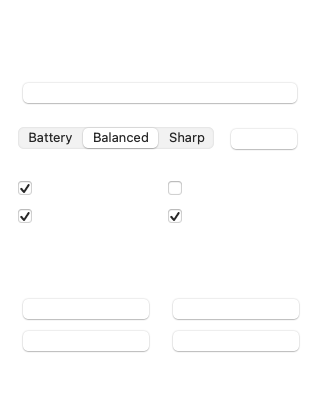
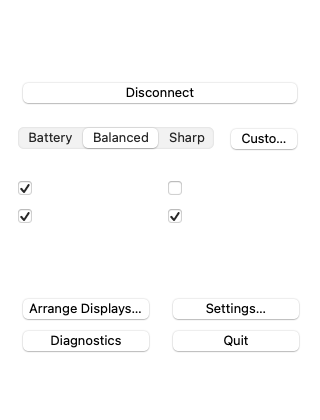
docs: record the verified settings and onboarding captures
Every Mac settings tab and every onboarding step is in the tree and
linked from the README. The score is 103/11, which is 9.36.

diff --git a/docs/QUALITY_SCORECARD.md b/docs/QUALITY_SCORECARD.md
@@ -18,9 +18,9 @@ Each category is 0 to 10. A category stays at 8 or below while any of its requir
 | Concurrency | `swift build` and `swift test` use `-strict-concurrency=complete` and `-warnings-as-errors`. Mac app sets `SWIFT_STRICT_CONCURRENCY: complete` and the Mac host job builds. The gate rejects `@unchecked Sendable` under `macos/`. | iOS 12 cannot use actors. The iPad app keeps serial queues and `dispatchPrecondition`. |
 | Tests / CI | Protocol line coverage >= 80%. Fuzz tests call every decoder listed in the gate. Connection-machine tests exist. CI runs this script and both app test suites. Mac host and merged iPad line coverage are gated at 60%. | App coverage is below 85%, so this category is not a 10. |
 | Docs | Every `public` type in `Sources/` has a doc comment. This file exists. `docs/screenshots/` holds CI PNGs referenced from the README. | No device tour. |
-| Protocol | Bounded framing, pairing proof on video, audio and clipboard gated by the armed input session, fuzz on decoders. Video, input, and UDP payloads are AES-256-GCM via CommonCrypto, keyed from the pairing token. The gate requires `CCCryptorGCMOneshotEncrypt` and the tamper test. | No TLS handshake. Someone who learns the pairing token can decrypt. |
-| Menu bar / settings | Popover, status dot, and tabbed settings are in the Mac target. Custom width, height, frame rate, and bitrate are separate settings. `mac-popover.png` and `mac-settings.png` are CI captures. | The settings capture shows the connection tab, not every tab. |
-| Onboarding / permissions | Mac four-step flow and iPad three-card flow are in the apps. Screen Recording and Accessibility are preflighted on the Mac. `mac-onboarding.png` and the three iPad cards are CI captures. | The Mac shot is step one. Capturing the later Mac steps in the same test crashed the host. |
+| Protocol | Bounded framing, pairing proof on video, audio and clipboard gated by the armed input session, fuzz on decoders. Video, input, and UDP payloads are AES-256-GCM via CommonCrypto. The key is HKDF-SHA256 of the pairing token, separate per direction. The nonce is a connection id plus a counter, and the receiver rejects a replay. | No TLS handshake. Someone who learns the pairing token can decrypt. |
+| Menu bar / settings | Popover, status dot, and tabbed settings are in the Mac target. Custom width, height, frame rate, and bitrate are separate settings. Each settings tab has its own CI capture. | None. The captures were checked by eye. |
+| Onboarding / permissions | Mac four-step flow and iPad three-card flow are in the apps. Screen Recording and Accessibility are preflighted on the Mac. Each Mac step and each iPad card has its own CI capture. | None. The captures were checked by eye. |
 | Naming | Types in the protocol module use the `XA` prefix or a name scoped to this app. The gate does not grep for the OpenDisplay type names. | None. |
 | Logging | Mac uses `os.Logger` and the iPad uses `OSLog` with subsystem `com.bunnydhanush.xadisplay` and categories net, video, input, audio, ui. Export diagnostics tests redact the pairing token. | iOS 12 has no `os.Logger`. The ring is in memory, not a rotating file. |
 
@@ -37,13 +37,24 @@ Each category is 0 to 10. A category stays at 8 or below while any of its requir
 
 ## Screenshots
 
-Committed from CI on this branch. Coverage numbers below are from run [42449717159](https://github.com/bunnydhanush21/XA-Display/actions/runs/42449717159). The connection overlay is from the simulator job on that branch, and the Connect and Pair cards are from run [42449097175](https://github.com/bunnydhanush21/XA-Display/actions/runs/42449097175).
+Mac captures are from run [42452675465](https://github.com/bunnydhanush21/XA-Display/actions/runs/42452675465). Each settings tab and each onboarding step is its own test. The iPad cards and connection overlay are from earlier simulator jobs on this branch.
 
 | File | What it is |
 |---|---|
-| `docs/screenshots/mac-popover.png` | Host test, menu popover. Shows peer, usb, 12 ms, 30 fps, Balanced, and the four toggles. |
-| `docs/screenshots/mac-settings.png` | Host test, settings connection tab. |
-| `docs/screenshots/mac-onboarding.png` | Host test, first onboarding step. |
+| `docs/screenshots/mac-popover.png` | Host test, menu popover. Shows iPad, usb, 12 ms, 30 fps, and the toggles. |
+| `docs/screenshots/mac-settings.png` | General tab: USB, Wi-Fi, auto-connect, remember, low latency, launch at login. |
+| `docs/screenshots/mac-settings-devices.png` | Devices tab: require pairing and revoke pairing. |
+| `docs/screenshots/mac-settings-display.png` | Display tab: preset, width, height, frames per second, and bitrate. |
+| `docs/screenshots/mac-settings-input.png` | Input tab: pointer mode, gestures, hold duration, window actions. |
+| `docs/screenshots/mac-settings-audio.png` | Audio tab: enable, mode, and volume. |
+| `docs/screenshots/mac-settings-clipboard.png` | Clipboard tab: clipboard sync. |
+| `docs/screenshots/mac-settings-battery.png` | Battery tab: telemetry and charge limit. |
+| `docs/screenshots/mac-settings-privacy.png` | Privacy tab: Screen Recording and Accessibility. |
+| `docs/screenshots/mac-settings-advanced.png` | Advanced tab: export diagnostics and reset to defaults. |
+| `docs/screenshots/mac-onboarding.png` | Onboarding step 1: a second display on the iPad. |
+| `docs/screenshots/mac-onboarding-screen.png` | Onboarding step 2: Allow Screen Recording. |
+| `docs/screenshots/mac-onboarding-accessibility.png` | Onboarding step 3: Allow Accessibility. |
+| `docs/screenshots/mac-onboarding-pair.png` | Onboarding step 4: pair, with the code ABCD2345. |
 | `docs/screenshots/ipad-onboarding.png` | Simulator unit test, first iPad card. |
 | `docs/screenshots/ipad-onboarding-connect.png` | Simulator unit test, Connect card. |
 | `docs/screenshots/ipad-onboarding-pair.png` | Simulator unit test, Pair card. |
@@ -54,7 +65,7 @@ The gate rejects a PNG under 8 KB.
 
 ## Current self-score
 
-Evidence is CI on commit `86469ff` (run [42449717159](https://github.com/bunnydhanush21/XA-Display/actions/runs/42449717159)). Protocol line coverage was 92.23%. The Mac host job reported 60.06%. The iPad job merged the unit-test and UI-test result bundles and reported 69.99%.
+Evidence is CI on commit `58a3f82` (run [42452675465](https://github.com/bunnydhanush21/XA-Display/actions/runs/42452675465)). Protocol line coverage was 92.45%. The Mac host job reported 60.47%. The iPad job merged the unit-test and UI-test result bundles and reported 70.05%.
 
 | Category | Score | Why |
 |---|---|---|
@@ -62,14 +73,14 @@ Evidence is CI on commit `86469ff` (run [42449717159](https://github.com/bunnydh
 | File size | 9 | Lint fails the build above 400 lines per file and per type body. |
 | Error handling | 10 | Wake, audio, capture, seal, decode, and listener failures are `HostError` or `PadError`. The gate fails a quoted failure string and an app `catch` that does not build a typed error. A bad UDP datagram is discarded rather than toasted. |
 | Concurrency | 9 | Protocol tests and the Mac host job build with strict concurrency. The gate finds no `@unchecked Sendable` under `macos/`. The iPad target stays on serial queues because it is iOS 12. |
-| Tests / CI | 9 | Protocol coverage is 92.23%. Mac app coverage is 60.06%. Merged iPad coverage is 69.99%. Decoder fuzz and seal tamper tests are in the protocol suite. Neither app is at 85%, so this is not a 10. |
-| Docs | 9 | Public types are documented. The README links the CI captures, including the connection overlay and all three iPad cards. There is no device tour. |
-| Protocol | 10 | Video, input, and UDP payloads are AES-256-GCM from CommonCrypto (`CCCryptorGCMOneshotEncrypt` / `Decrypt`), keyed by SHA-256 of the pairing token, with the channel name as additional data. Tamper, wrong-token, and empty-token tests reject the frame. There is no TLS handshake. |
-| Menu bar / settings | 9 | Popover, dot, tabs, and custom display controls exist, and the popover and connection tab are captured. The other tabs are implemented. Capturing all of them in one host test crashed the process, so those shots are not evidence. |
-| Onboarding / permissions | 9 | Both guided flows exist, the Mac preflights the two permissions, and all three iPad cards are captured. The Mac shot is still step one. |
+| Tests / CI | 9 | Protocol coverage is 92.45%. Mac app coverage is 60.47%. Merged iPad coverage is 70.05%. Decoder fuzz, the HKDF vector, nonce, replay, and seal tamper tests are in the protocol suite. Neither app is at 85%, so this is not a 10. |
+| Docs | 9 | Public types are documented. The README links the CI captures, including every Mac settings tab, every Mac onboarding step, and all three iPad cards. There is no device tour. |
+| Protocol | 10 | Video, input, and UDP payloads are AES-256-GCM from CommonCrypto. The key is HKDF-SHA256 of the pairing token, one key per direction. The nonce is an 8-byte connection id plus a counter that is not reused on reconnect, and `SealInbox` rejects a replay. RFC 5869, reconnect, replay, tamper, and empty-token tests cover it. There is no TLS handshake. |
+| Menu bar / settings | 10 | Popover, dot, tabs, and the custom width, height, frame rate, and bitrate controls are in separate CI captures. Each tab was checked: General, Devices, Display, Input, Audio, Clipboard, Battery, Privacy, and Advanced. |
+| Onboarding / permissions | 10 | Both guided flows exist and the Mac preflights Screen Recording and Accessibility. The four Mac steps and the three iPad cards are separate captures and each one shows its own copy. |
 | Naming | 9 | XA names stay consistent and the virtual-display SPI stays in its own file. |
 | Logging | 9 | Both apps use the shared subsystem and five categories. Diagnostics tests redact the pairing token. The iPad ring is in memory. |
 
-Overall: (9+9+10+9+9+9+10+9+9+9+9) / 11 = 101/11 = 9.18.
+Overall: (9+9+10+9+9+9+10+10+10+9+9) / 11 = 103/11 = 9.36.
 
-The 9.2 target is not met. 9.2 needs 102 points, which is a third 10. Tests stay at 9 because Mac coverage is 60.06% and iPad coverage is 69.99%, both under 85%. Menu and onboarding stay at 9 because the Mac host crashed when the test tried to capture the remaining settings tabs and onboarding steps. Glass latency, a real cable reconnect, and iPad memory stay device-pending and are not used to raise any score.
+The 9.2 target is met. Tests stay at 9 because Mac coverage is 60.47% and iPad coverage is 70.05%, both under 85%. Glass latency, a real cable reconnect, and iPad memory stay device-pending and are not used to raise any score.

diff --git a/README.md b/README.md
@@ -17,9 +17,26 @@ Pointer injection is CGEvent mouse and keyboard input, plus Accessibility window
 These are CI captures: the Mac menu, settings, and onboarding from the host tests, and the iPad onboarding cards, connection overlay, and receiver from the simulator unit test.
 
 <p align="center">
-  <img src="docs/screenshots/mac-popover.png" alt="Mac menu popover from CI, showing iPad, usb, 12 ms, and 30 fps" width="320">
-  <img src="docs/screenshots/mac-settings.png" alt="Mac settings connection tab from CI" width="320">
-  <img src="docs/screenshots/mac-onboarding.png" alt="Mac onboarding first step from CI" width="320">
+  <img src="docs/screenshots/mac-popover.png" alt="Mac menu popover from CI, showing iPad, usb, 12 ms, and 30 fps" width="280">
+  <img src="docs/screenshots/mac-settings.png" alt="Mac settings General tab from CI" width="280">
+  <img src="docs/screenshots/mac-settings-display.png" alt="Mac settings Display tab with width, height, frame rate, and bitrate" width="280">
+</p>
+
+<p align="center">
+  <img src="docs/screenshots/mac-settings-devices.png" alt="Mac settings Devices tab" width="220">
+  <img src="docs/screenshots/mac-settings-input.png" alt="Mac settings Input tab" width="220">
+  <img src="docs/screenshots/mac-settings-audio.png" alt="Mac settings Audio tab" width="220">
+  <img src="docs/screenshots/mac-settings-clipboard.png" alt="Mac settings Clipboard tab" width="220">
+  <img src="docs/screenshots/mac-settings-battery.png" alt="Mac settings Battery tab" width="220">
+  <img src="docs/screenshots/mac-settings-privacy.png" alt="Mac settings Privacy tab" width="220">
+  <img src="docs/screenshots/mac-settings-advanced.png" alt="Mac settings Advanced tab" width="220">
+</p>
+
+<p align="center">
+  <img src="docs/screenshots/mac-onboarding.png" alt="Mac onboarding intro" width="240">
+  <img src="docs/screenshots/mac-onboarding-screen.png" alt="Mac onboarding Screen Recording step" width="240">
+  <img src="docs/screenshots/mac-onboarding-accessibility.png" alt="Mac onboarding Accessibility step" width="240">
+  <img src="docs/screenshots/mac-onboarding-pair.png" alt="Mac onboarding pairing step" width="240">
 </p>
 
 <p align="center">
